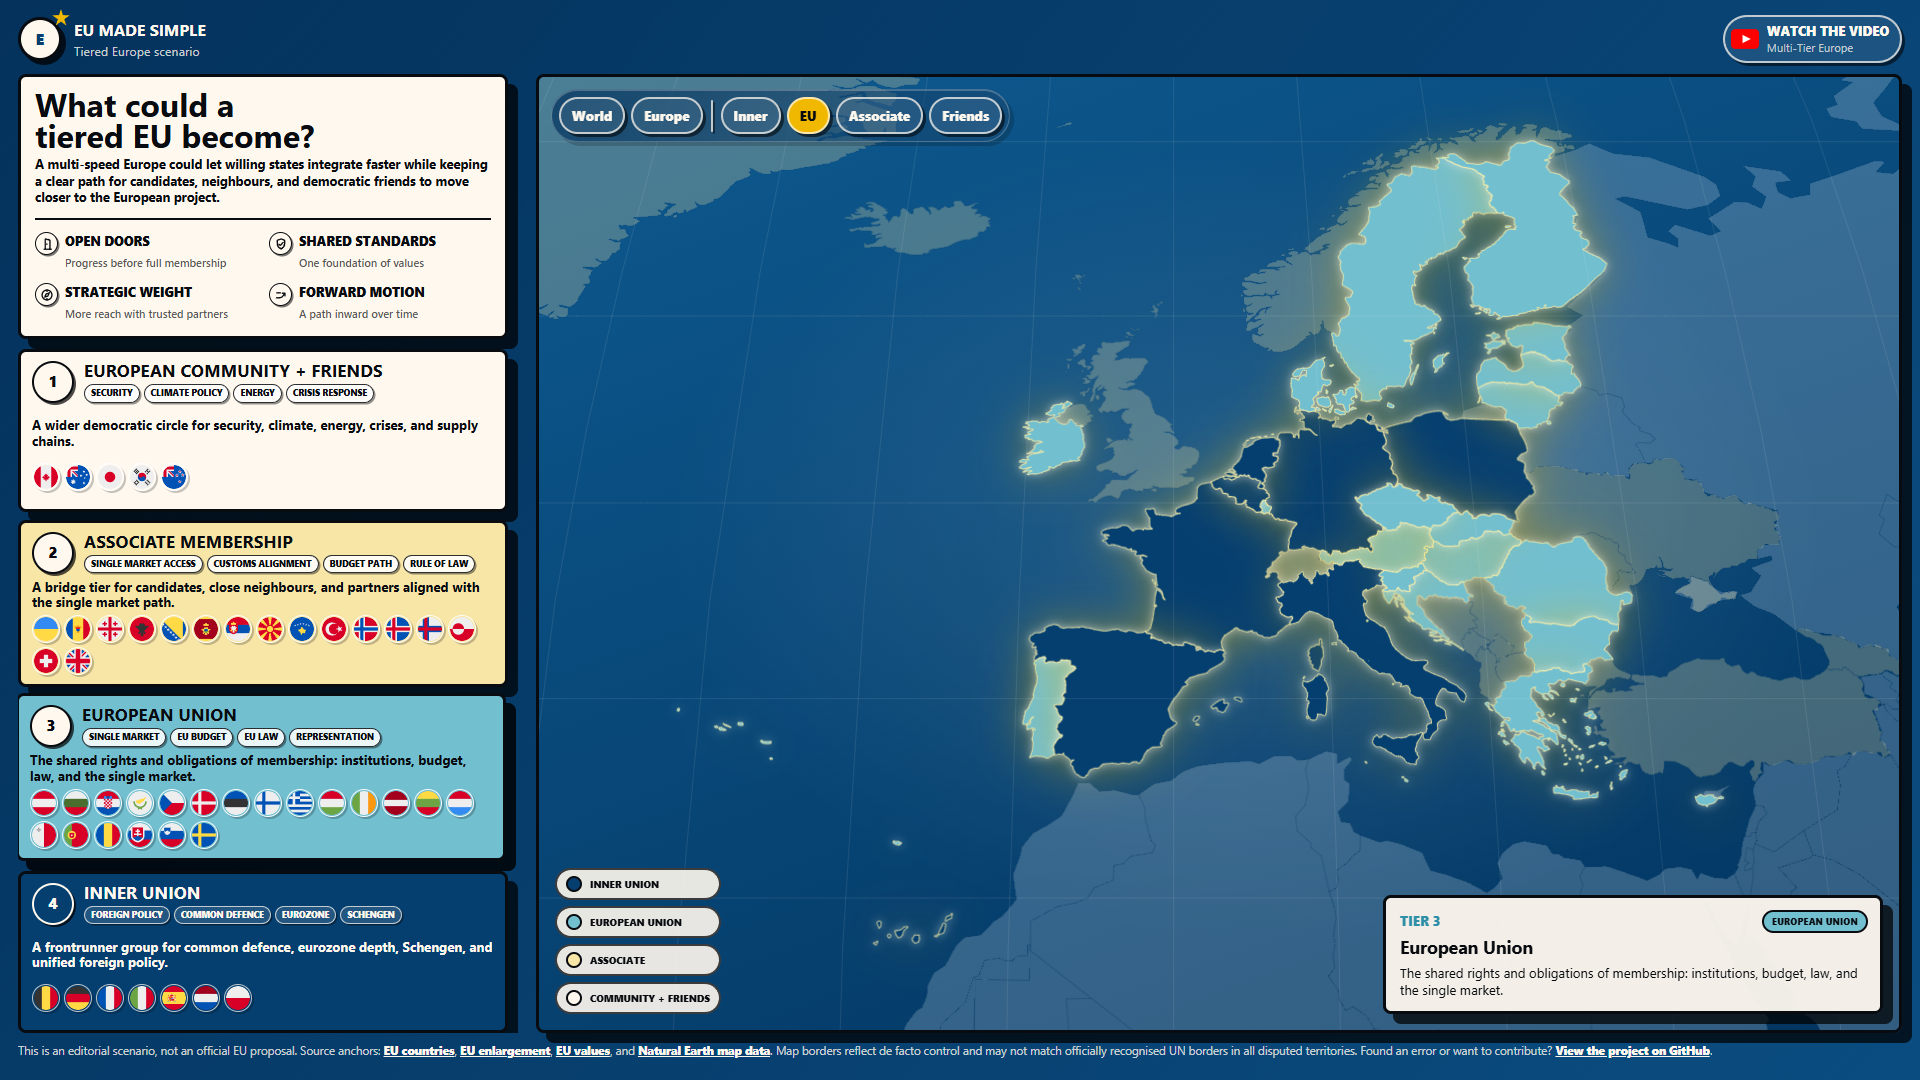
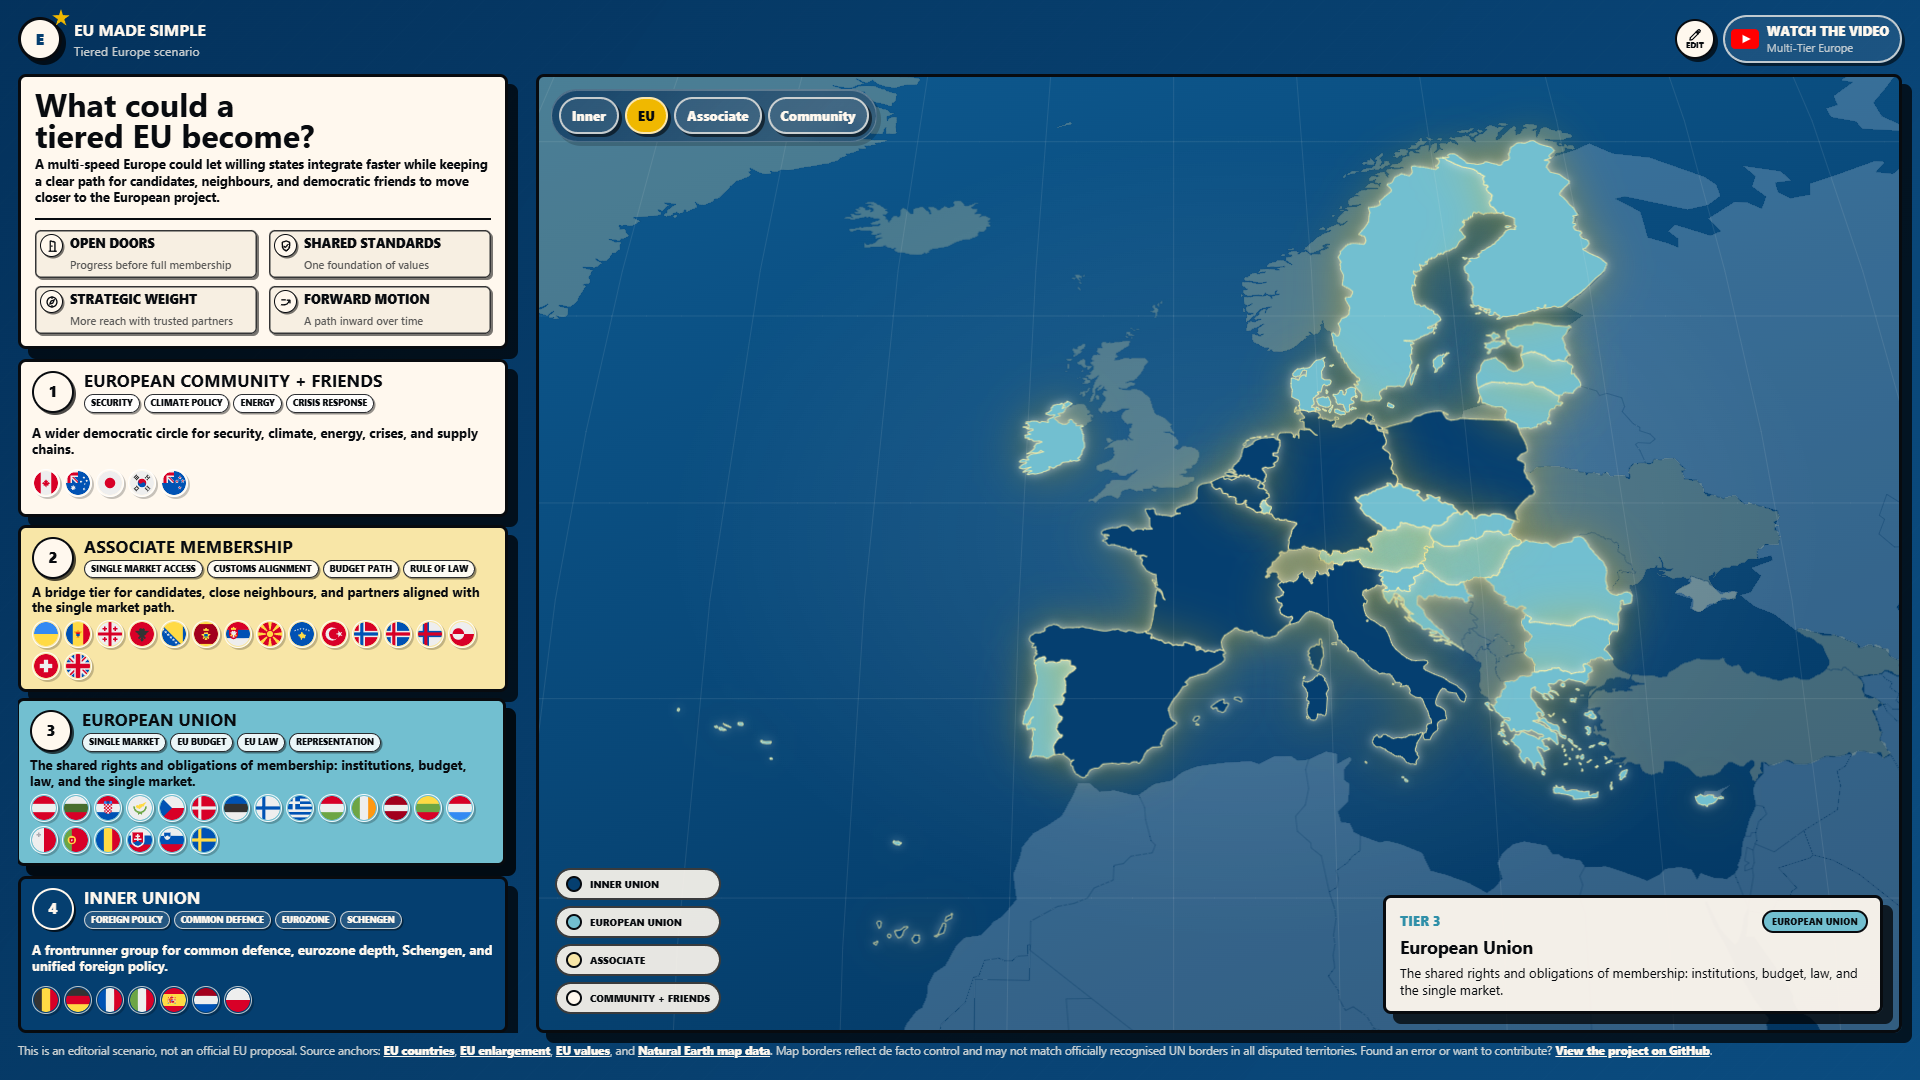
feat: remove unused scene buttons and separator from map toolbar

diff --git a/src/styles.css b/src/styles.css
@@ -866,15 +866,6 @@ button.country-chip {
   outline: none;
 }
 
-.scene-separator {
-  width: 2px;
-  height: 32px;
-  margin: 0 2px;
-  background: rgba(255, 248, 238, 0.72);
-  border-radius: 999px;
-  box-shadow: 2px 2px 0 rgba(0, 0, 0, 0.42);
-}
-
 .map-wrap {
   position: relative;
   contain: layout paint;
@@ -1502,12 +1493,6 @@ button.country-chip {
   }
 
   .value-strip {
-    display: none;
-  }
-
-  .scene-tabs [data-scene="world"],
-  .scene-tabs [data-scene="europe"],
-  .scene-separator {
     display: none;
   }
 

diff --git a/index.html b/index.html
@@ -75,9 +75,6 @@
           <div class="map-wrap">
             <div class="map-toolbar">
               <div class="scene-tabs" id="sceneTabs" aria-label="Map focus">
-                <button type="button" data-scene="world" class="is-active">World</button>
-                <button type="button" data-scene="europe">Europe</button>
-                <span class="scene-separator" aria-hidden="true"></span>
                 <button type="button" data-scene="inner">Inner</button>
                 <button type="button" data-scene="eu">EU</button>
                 <button type="button" data-scene="associate">Associate</button>